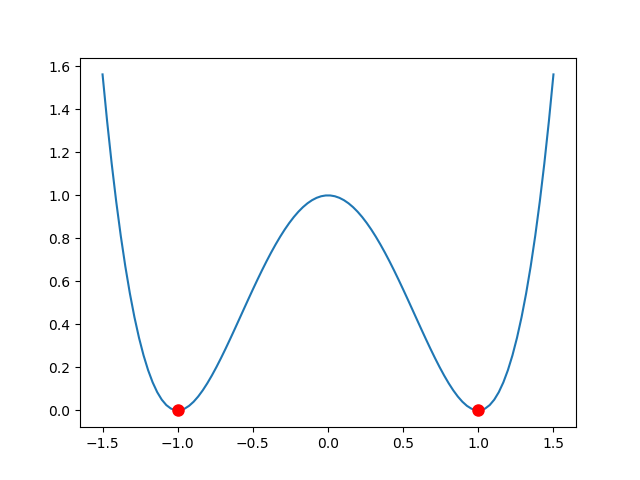
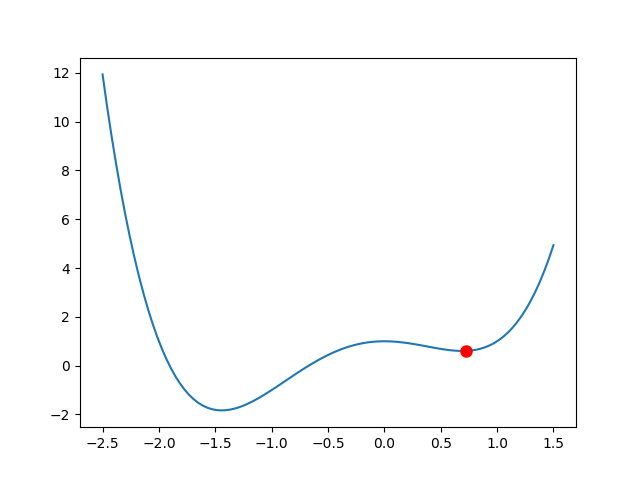
Change local minimum image

diff --git a/scripts/5_gradient.py b/scripts/5_gradient.py
@@ -11,11 +11,10 @@ pylab.plot([0],[0], marker='o', markersize=8, color='red')
 pylab.show() # show the plot
 
 
-x = np.linspace(-1.5,1.5,100) # 100 linearly spaced numbers
-y = x**4 - 2*x**2 + 1 # computing the values of sin(x)/x
+x = np.linspace(-2.5,1.5,100) # 100 linearly spaced numbers
+y = x**4 + x**3 - 2*x**2 + 1 # computing the values of sin(x)/x
 
 # compose plot
 pylab.plot(x,y) # sin(x)/x
-pylab.plot([-1],[0], marker='o', markersize=8, color='red')
-pylab.plot([1],[0], marker='o', markersize=8, color='red')
+pylab.plot([0.72],[0.60], marker='o', markersize=8, color='red')
 pylab.show() # show the plot
